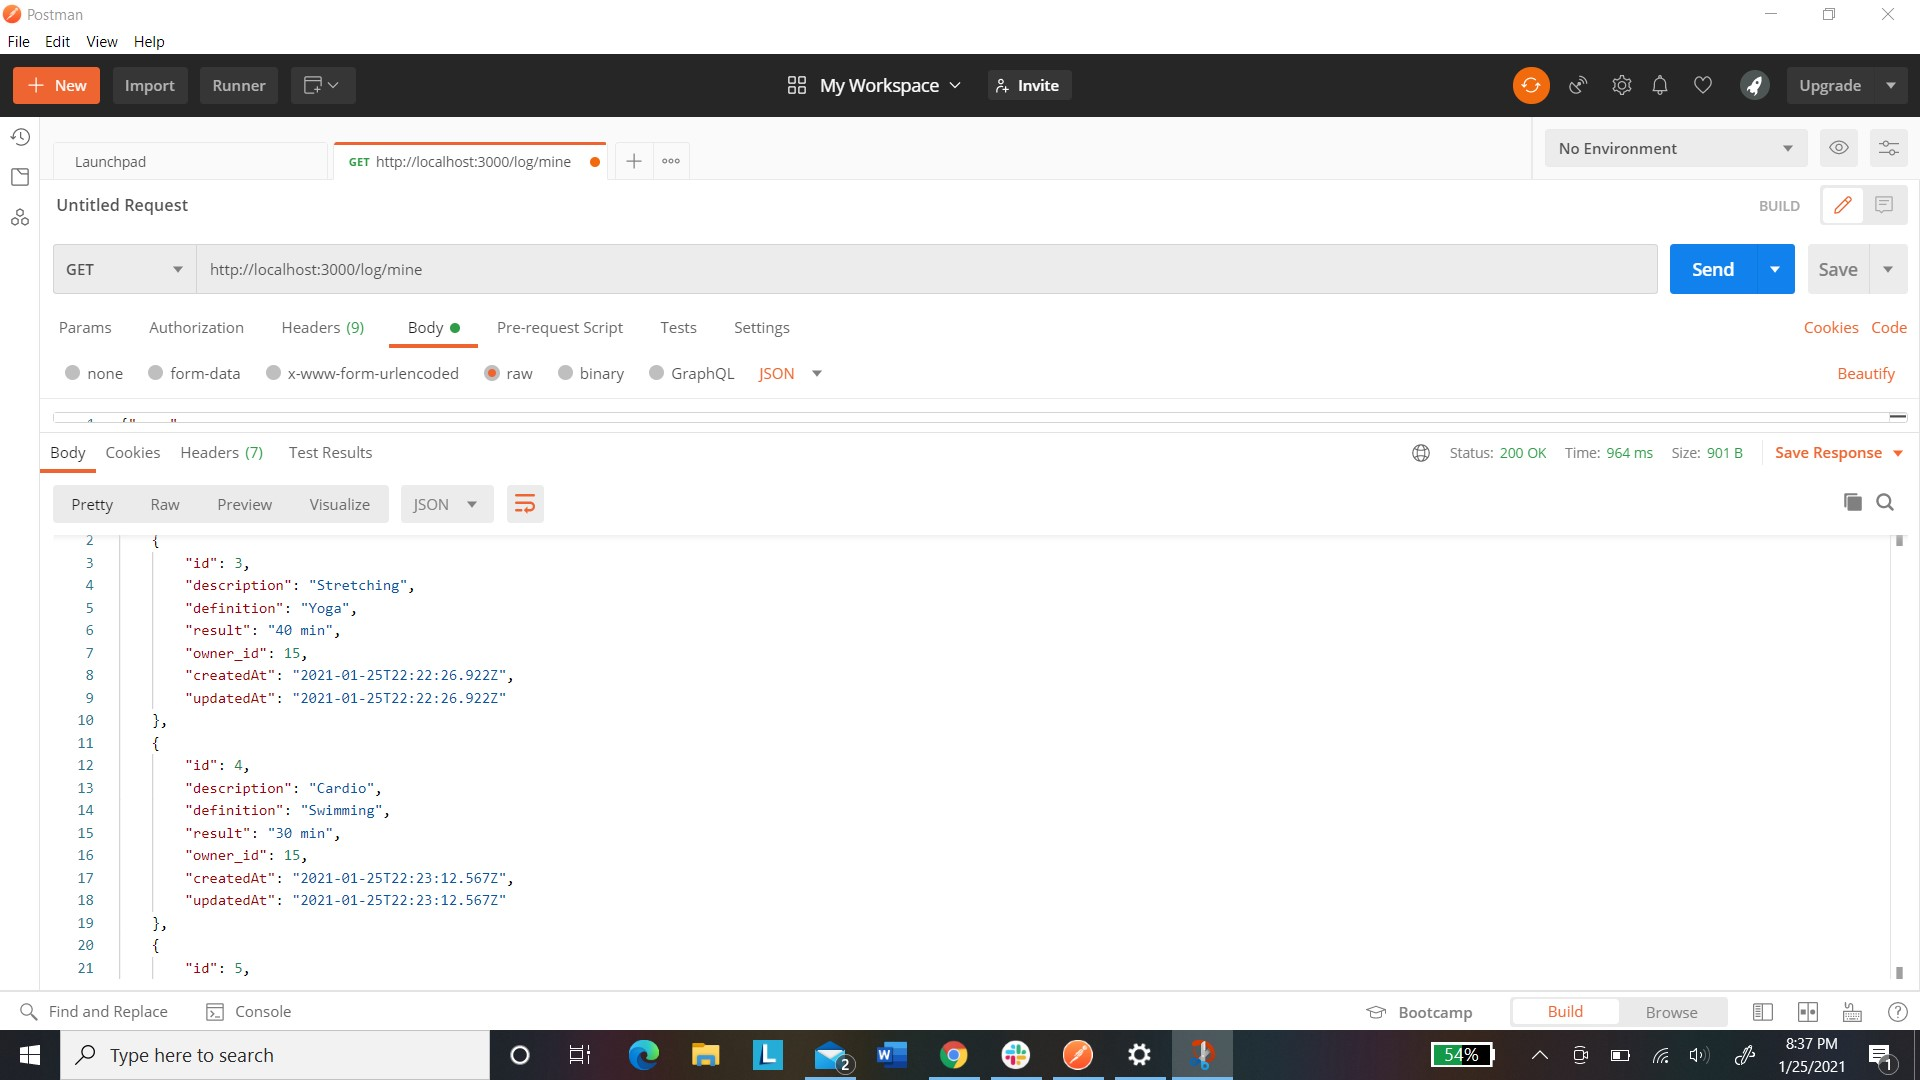
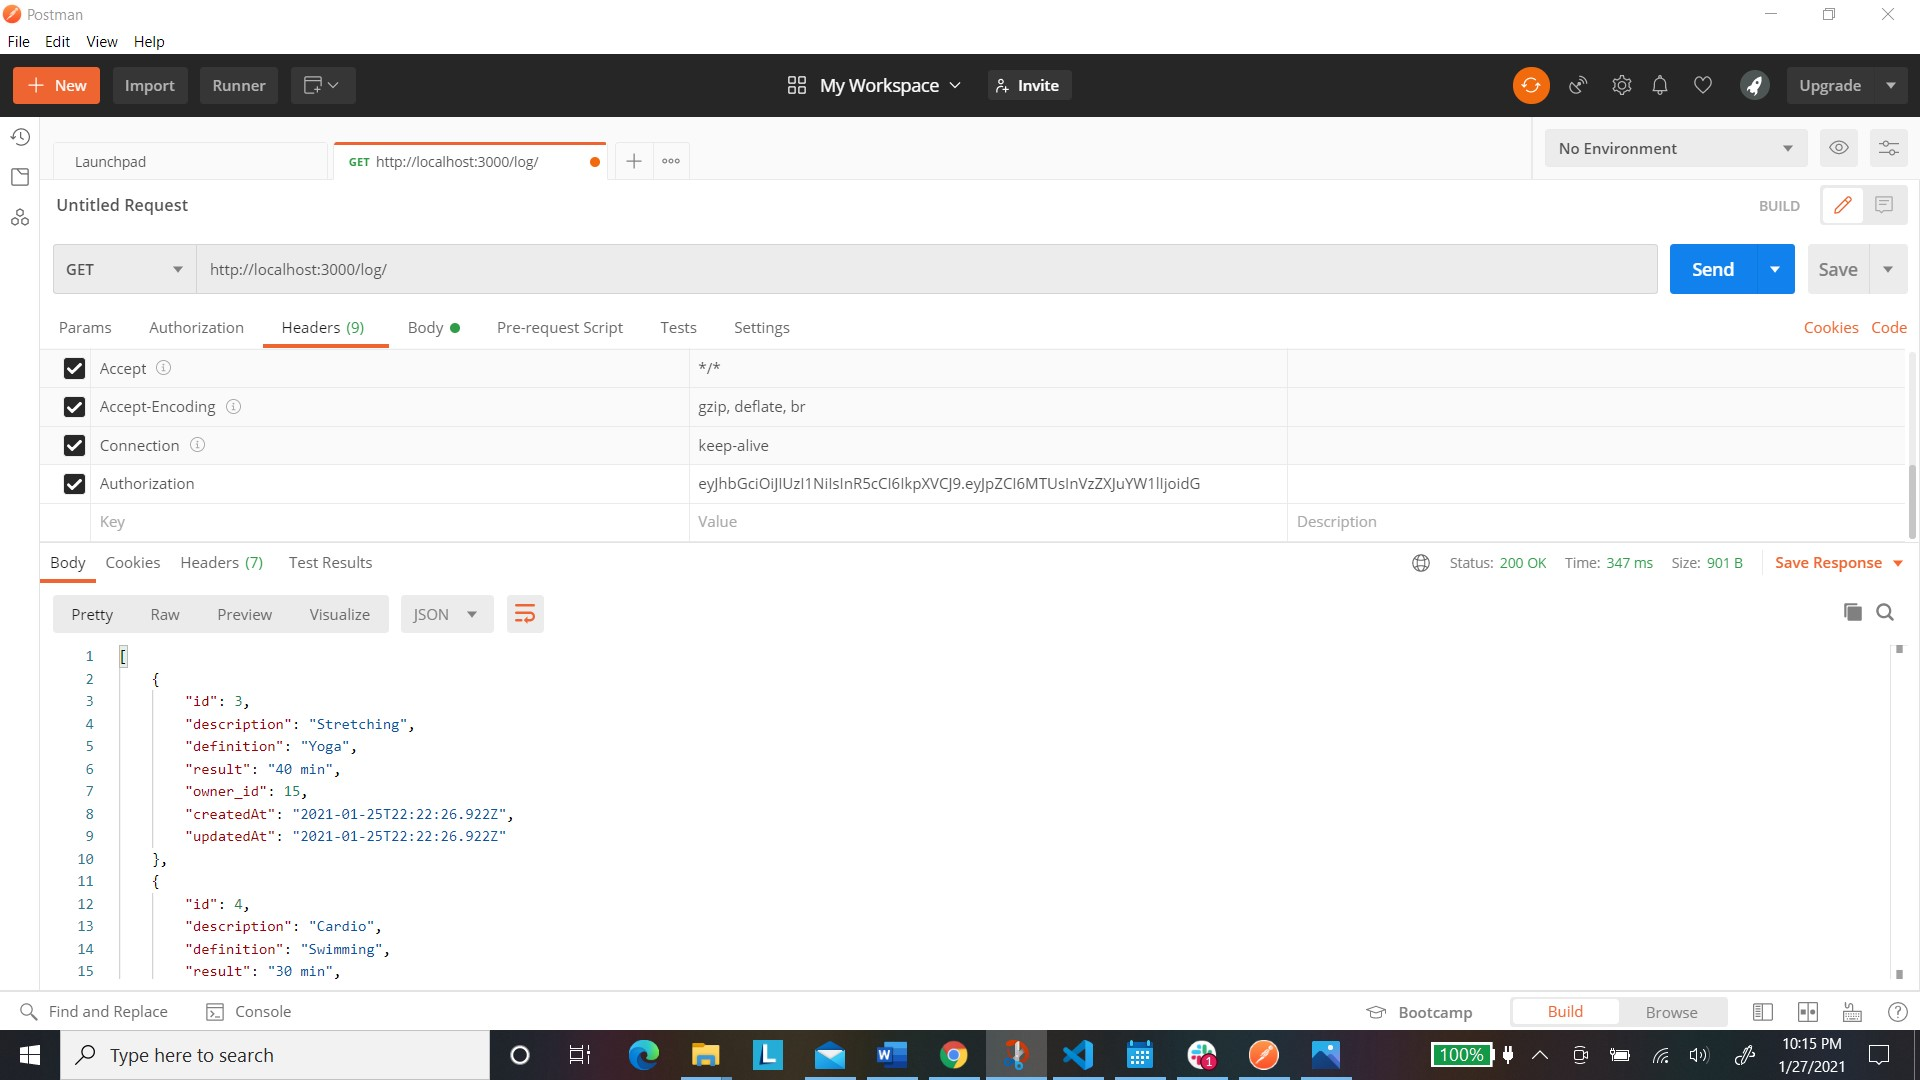
updates to project

diff --git a/controllers/logcontroller.js b/controllers/logcontroller.js
@@ -20,17 +20,9 @@ router.post('/create', validateSession, (req, res) => {
     .catch(err => res.status(500).json ({error: err}))
     });
 
-    //Get all logs
-
-    router.get("/", (req, res) => {
-    Log.findAll()
-        .then(logs => res.status(200).json(logs))
-        .catch(err => res.status(500).json({ error: err }));
-    });
-
     //Get all logs for single user
 
-    router.get("/mine", validateSession, (req, res) => {
+    router.get("/", validateSession, (req, res) => {
         let userid = req.user.id
         Log.findAll({
           where: {owner_id: userid}
@@ -43,7 +35,7 @@ router.post('/create', validateSession, (req, res) => {
 
     router.get("/:id", function(req, res) {
       let id = req.params.id;
-      Log.findAll({where: {id: id}
+      Log.findAll({where: {owner_id: userid}
       })
       .then(logs => res.status(200).json(logs))
       .catch(err => res.status(500).json({ error: err}))
